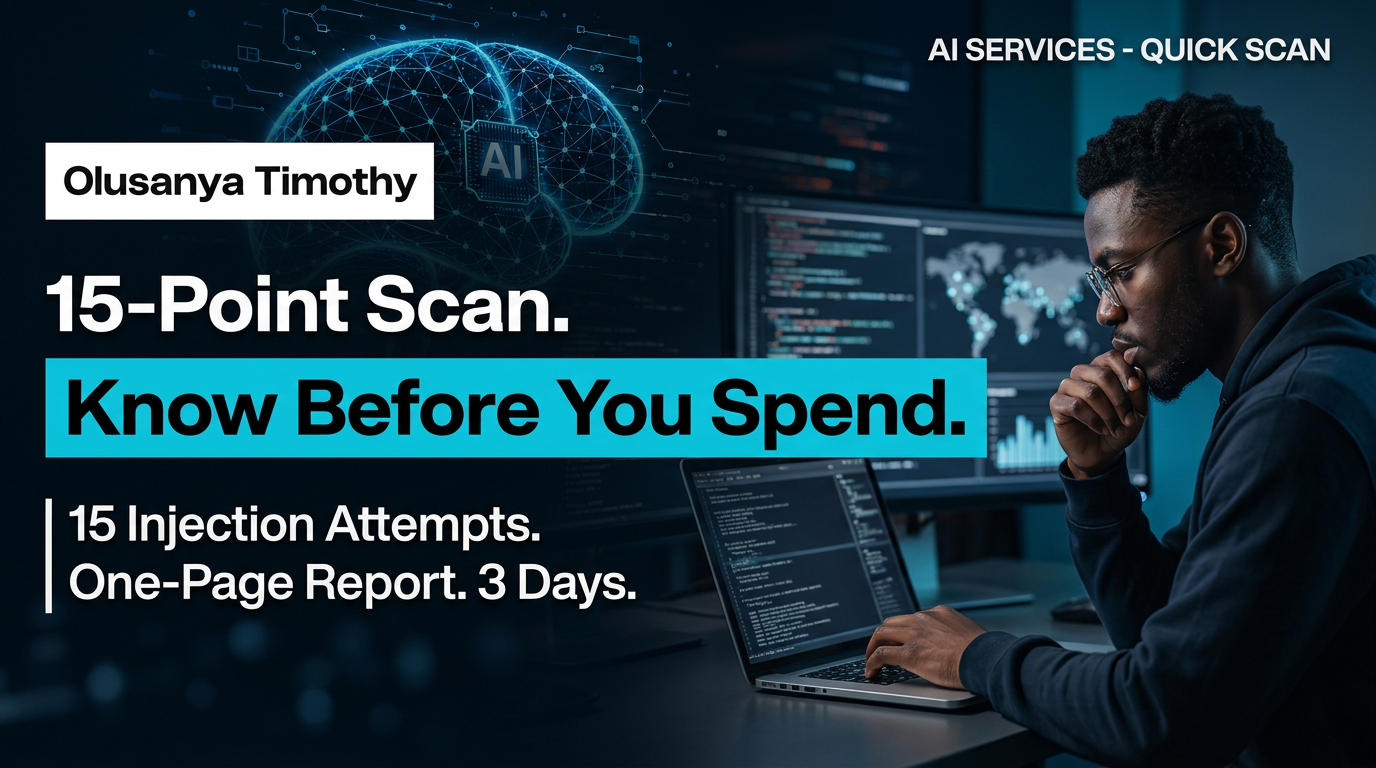
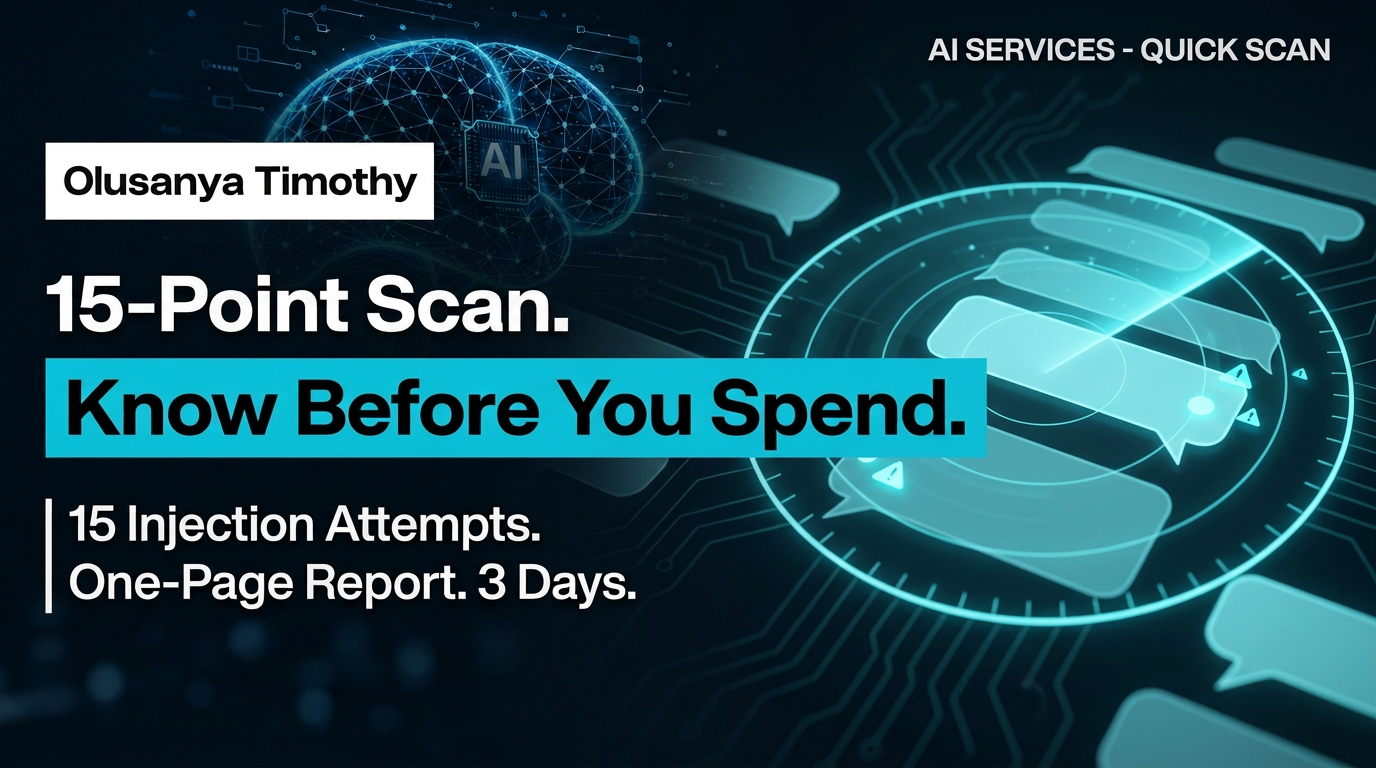
Gallery step: content-specific backgrounds for 3 tier covers + real 3-page sample findings report PDF

diff --git a/linkedin_emphire/UPWORK/project_catalog.md b/linkedin_emphire/UPWORK/project_catalog.md
@@ -33,10 +33,17 @@ Upwork lets you set a different price per tier per buyer company size. Use this 
 - Executive summary written for non-technical leadership/stakeholders: +$100
 
 ### Gallery step
-Use one image per tier if Upwork allows multiple gallery images on one listing, otherwise lead with the Standard-tier image since that's the primary service:
-- `gallery/catalog_tier1_quickscan.png` (Starter)
-- `gallery/catalog_tier2_redteamreview.png` (Standard)
-- `gallery/catalog_tier3_prelaunch.png` (Advanced)
+Upwork's own gallery guidelines explicitly list "text-heavy images" as something to avoid, so don't rely on marketing-style covers alone. Use this mix:
+
+**Project Images** (brand covers, now with tier-specific background concepts instead of a generic office photo):
+- `gallery/catalog_tier1_quickscan.png` (Starter) — background is a cyan radar scan sweeping an abstract chat interface, flagging a couple of hits
+- `gallery/catalog_tier2_redteamreview.png` (Standard) — background is 4 stacked translucent layers being probed by red attack-lines converging on a central AI chip
+- `gallery/catalog_tier3_prelaunch.png` (Advanced) — background is a circuit-pattern padlock closing over a shield with a checkmark
+
+**Sample Documents** (new Upwork feature, clients see the first 3 pages, use this for the least "marketing," most "real work" proof in the whole gallery):
+- `gallery/sample_findings_report.pdf` — a clean 3-page PDF version of the real findings report (system prompt leak, fake refund trigger word, content-policy bypass), branded header/footer, ends with the 3-tier summary and the confidentiality line. This is the strongest trust-building asset in the gallery because it's an actual work sample, not a graphic.
+
+**Project video:** skipped. No AI-generated video was produced for this (stock-style AI video reads as generic and is a weaker trust signal than real footage). If you want one later, the strongest option is a real 45-60 second screen recording: your terminal running a couple of the actual test prompts, the bot's broken response, the fix landing, then the regression suite passing green, closing on the one-page report. I can write a voiceover script and generate narration audio for you to lay under your own screen capture whenever you're ready to record it.
 
 ### Process step
 1. You tell me which tier fits, then share access (staging link preferred) plus anything explicitly off-limits to test.
